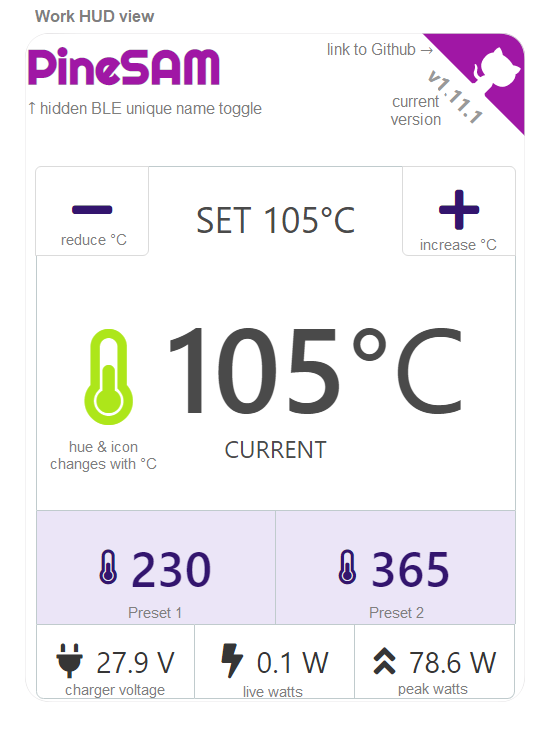
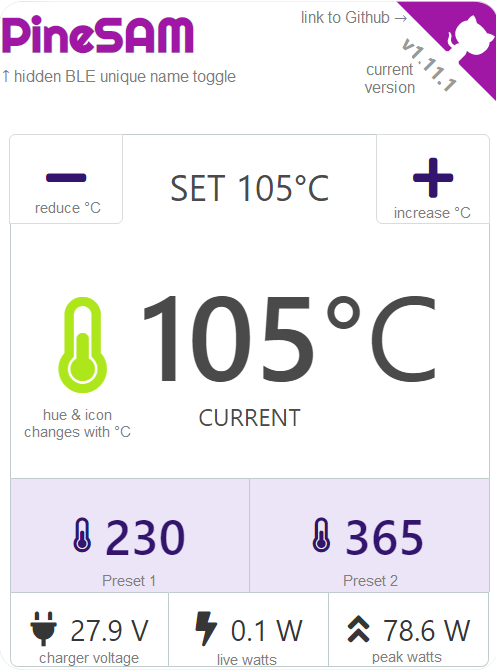
mkdocs fixed images

diff --git a/docs/user-guide/usage.md b/docs/user-guide/usage.md
@@ -22,19 +22,20 @@ Toggles on/off to display help messages from Pinecil and PineSAM.
 2. Change multiple settings and when done, toggle it back `Off`.
 3. While actively soldering and using buttons in the Work HUD, it is best to leave the save toggle off. No reason to constantly flash to pinecil for each temperature change (don't worry, Pinecil still changes temperature, it's just not permanently flashed and saved on Pinecil).
 
+<br clear="left"/>
+
+![PineSAM Work View - HUD (Heads Up Display) detailed](../img/workHUD-detailed.png){ align="left" width="400" style="margin-top: 1.2rem" float="left" }
 ## Work HUD
 
-![PineSAM Work View - HUD (Heads Up Display) detailed](../img/workHUD-detailed.png){ align="left" width="400" style="margin-top: -1rem" float="left" }
-
-1. This is a HUD window designed as an all-in-one single view that can be used during soldering.
-2. Phone: designed to be completely viewable on vertical screen.
-3. In this view one can control Set temperature with buttons ++plus++ ++minus++ and view important stats, e.g., live temperature.
+1. This HUD window is designed as an all-in-one single view and pinecil controller during soldering.
+2. Viewable on phones in vertical screen.
+3. Control set temperature with ++plus++ ++minus++ PineSAM buttons and view important stats, e.g., live temperature.
 4. Thermostat icon changes into 100 different color hues as the live temperature changes.
 5. Power Bar: bottom bar shows the input voltage, the current estimated watts pinecil is drawing, and the highest peak watt hit during the session.
 6. It is best to leave save to flash toggle Off while using the Work HUD to save on pinecil flash cycles as the PineSAM buttons are used often during a soldering session.
 <div style="clear: both;"></div>
 
-### Preset buttons
+### Preset Buttons
 
 1. Two Preset buttons are available above the power icons. They are exclusive to PineSAM and not available on the Pinecil iron directly.
 2. Presets allow quick change of user customized temperatures and can be saved instantly to a desired temperature.
